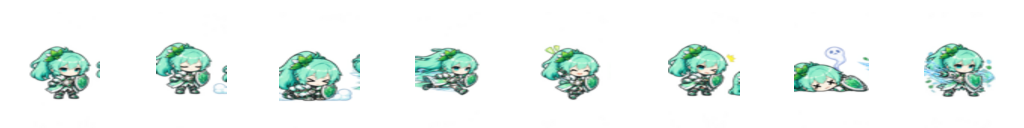
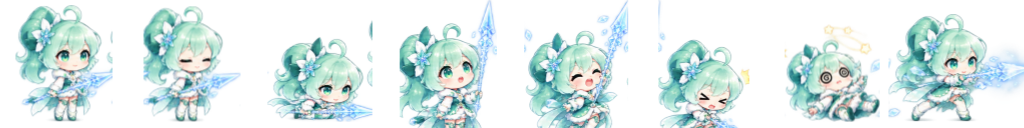
feat: real art — Frost Lance projectile + new Mint sprite sheets; Chocolate VFX art order (v2.79.0)
- proj_frostlance: cut/trimmed from owner art (assets/generated), wired into
  ASSET_IMAGES; Mint's Frost Lance now uses the real ice-spear sprite.
- New Mint character: 8-frame action sheet (incl. charge/throw-lance cast pose)
  cut from the irregularly-spaced source via connected-component segmentation +
  bottom-aligned consistent scaling; 12-frame run atlas resized 4x3. Sheets now
  match body size, so CHAR_ACTION_SCALE.mint removed.
- Added docs/ART_ORDER_CHOCOLATE_VFX.md for the missing Flicker Strike VFX
  (fx_bearslash claw impact + fx_flickerblink warp streak).
- Removed the processed source uploads from assets/incoming.
- Verified headless: textures load, Mint sheets = 8/12 frames, Frost Lance cast
  + ice-stream tick run with zero runtime errors.

Claude-Session: https://claude.ai/code/session_01Tso8JqAwpZWKnPeTcx39vZ

diff --git a/game.js b/game.js
@@ -29,9 +29,14 @@ const BALANCE = {
 const TAU = Math.PI * 2;   // global — Game scene (บอส/VFX) อ้างถึง TAU ด้วย เดิมประกาศเฉพาะใน Boot.create → "TAU is not defined"
 
 /* ---- เวอร์ชัน + บันทึกอัปเดต (build-www ดึงไปทำ version.json ให้หน้า download) ---- */
-const GAME_VERSION = '2.78.0';
+const GAME_VERSION = '2.79.0';
 const RELEASES_URL = 'https://github.com/hardza1230/Survival-like-Mobile-Game/releases/download/latest/mochi-mayhem-debug.apk';
 const CHANGELOG = [
+  { v:'2.79.0', date:'2026-09-17', title:'Real art: Frost Lance + new Mint sprites', items:[
+    'ลงอาร์ตจริง: หอกน้ำแข็ง proj_frostlance (ตัด/ย่อจากอาร์ตเจ้าของ) → มิ้นต์ยิงหอกน้ำแข็งรูปจริงแล้ว',
+    'ตัวมิ้นต์ใหม่: ชีตท่า 8 เฟรม (มีท่าชาร์จปาหอก) + ชีตวิ่ง 12 เฟรม — สัดส่วนท่า/วิ่งตรงกัน เลิกใช้ CHAR_ACTION_SCALE',
+    'เพิ่มใบสั่งงานอาร์ต VFX ช็อกโกแลตที่ขาด (fx_bearslash รอยกรงเล็บหมี + fx_flickerblink สตรีควาร์ป)',
+  ]},
   { v:'2.78.0', date:'2026-09-17', title:'Mint → Frost Lance + Flicker faster + Cocoa regen', items:[
     'มิ้นต์เปลี่ยน Basic Attack เป็น "Frost Lance" หอกน้ำแข็งทะลุแนว — พุ่งเจาะทะลุทุกตัว + ทิ้ง "สายธารน้ำแข็ง" บนแนว (DoT ต่อเนื่อง + ชะลอตัวที่เดินผ่าน)',
     'อัปเกรด: power=ดาเมจ · rate=ชาร์จไว · chill=ทะลุไกล+สายธารยาว · linger=สายธารอยู่นานขึ้น · blizzard=แตกเกล็ด · permafrost=แช่ลึก+DoT+40% · Evo=หอก 3 เล่มสามง่าม',
@@ -819,6 +824,7 @@ const ASSET_IMAGES = {
   proj_rocket:'assets/proj_rocket.png', proj_fork:'assets/proj_fork.png', proj_boomer:'assets/proj_boomer.png',   // กระสุนรูปจริง (คีย์เขียว)
   // projectile sprite จริง — แทน spark/circle vector เดิม
   proj_sprinkle:'assets/generated/proj_sprinkle.png', proj_whirl:'assets/generated/proj_whirl.png',
+  proj_frostlance:'assets/generated/proj_frostlance.png',   // หอกน้ำแข็งของมิ้นต์ (Frost Lance)
   proj_popcorn:'assets/generated/proj_popcorn.png', bubble:'assets/generated/proj_bubble.png',
   proj_enemy:'assets/generated/proj_enemy.png', proj_mine:'assets/generated/proj_mine.png',
   // static VFX sprite จริง — ขยาย/หมุน/เฟดด้วย tween แทนการวาด vector ทุกครั้ง
@@ -1391,7 +1397,7 @@ const RARITIES = [
 ];
 function rollRarity(){ const tot=RARITIES.reduce((s,r)=>s+r.weight,0); let x=Math.random()*tot; for(const r of RARITIES){ x-=r.weight; if(x<=0)return r; } return RARITIES[0]; }
 /* ตัวคูณสเกลตอนโชว์ชีต action (idle/พุ่ง/โดนตี ฯลฯ) เฉพาะตัวที่อาร์ต action เล็กกว่าอาร์ต run — กันตัวหดตอนหยุดเดิน */
-const CHAR_ACTION_SCALE = { mint: 1.5 };
+const CHAR_ACTION_SCALE = {};   // ชีตท่า/วิ่งของมิ้นต์ใหม่สัดส่วนตรงกันแล้ว ไม่ต้องคูณชดเชย
 const AWAKEN_CAP = 2;         // ต่อหนึ่งด่านมี Awaken ได้ไม่เกิน 2 สาย เพื่อคุม power budget
 const SKILL_CAP  = 4;        // จำกัดสายโจมตีให้ต้องเลือก build จริง ไม่กวาดทุกสกิลในรอบเดียว
 const PASSIVE_CAP = 4;       // จำกัดพรติดตัว ลด power stacking และทำให้คู่ Evolution มีความหมาย

diff --git a/docs/ART_ORDER_CHOCOLATE_VFX.md b/docs/ART_ORDER_CHOCOLATE_VFX.md
@@ -1,0 +1,55 @@
+# 🐻🍫 ใบสั่งงานอาร์ต — VFX ที่ขาดของช็อกโกแลต (โกโก้ · Flicker Strike)
+
+> โกโก้ใช้ Unique ใหม่ **Flicker Strike** (วาร์ปฟันรัว ๆ สายคอมโบประชิด ธีมหมี/ช็อกโกแลตม่วงอุ่น)
+> ตอนนี้จังหวะ "ฟัน" ใช้แค่วงกระแทกสีม่วง + อนุภาคทั่วไป — **ยังขาด VFX รอยฟัน/กรงเล็บหมี** และ **สตรีคตอนวาร์ป**
+> ทำ **2 ชิ้น** (ทำชิ้นแรกก่อนได้ ชิ้น 2 เสริม)
+
+---
+
+## ชิ้นที่ 1 (สำคัญสุด) — รอยฟันกรงเล็บหมี `fx_bearslash`
+ใช้เด้งตอนวาร์ปเข้าฟันศัตรูแต่ละครั้ง (เล่นครั้งเดียวแล้วหาย)
+
+### สเปกเทคนิค (VFX flipbook — ต้องเป๊ะตามระบบเกม)
+- **ชื่อไฟล์:** `fx_bearslash.png`
+- **พื้น:** **ดำสนิท (solid black background)** — ไม่ใช่โปร่งใส (เกมใช้ additive blend ลบพื้นดำออกเอง)
+- **เลย์เอาต์:** สตริปแนวนอน **8 เฟรมเท่า ๆ กัน** (8 คอลัมน์ 1 แถว) เรียงเป็นอนิเมชันต่อเนื่อง
+- **ขนาดเฟรม:** ~192×192 px ต่อเฟรม → รวม 1536×192 (เฟรมไม่ต้องจตุรัสเป๊ะก็ได้ แต่เท่ากันทุกเฟรม)
+- **สี:** ม่วง–ชมพูอุ่น เรืองแสง (ธีมช็อกโกแลตเวทมนตร์) โทน `#b98bff / #9f6bff` + ไส้ขาวสว่าง
+- **เนื้อหา:** รอย **กรงเล็บหมี 3 เส้นเฉือน (claw slash)** วาบขึ้นเร็ว → พุ่งกว้าง → จางหาย · มีประกาย/สะเก็ดพลังงานเล็กน้อย
+- อนิเมชัน: เฟรม 1–2 เริ่มวาบ, 3–5 เต็มแรงกว้างสุด, 6–8 จางหาย
+
+### เทมเพลตส่ง AI image (ก๊อปได้เลย)
+```
+An 8-frame horizontal sprite strip animation of a glowing BEAR CLAW SLASH impact effect
+for a cute candy game. Three diagonal claw-slash streaks in warm purple-pink (#9f6bff /
+#b98bff) with a bright white-hot core and a few sparkles. Frames read left to right:
+the slash flashes in, expands wide and bright at peak, then fades out.
+
+STRICT REQUIREMENTS:
+- SOLID BLACK background (not transparent) — pure #000000, no other bg color
+- 8 equal frames in a SINGLE horizontal row, each 192x192 px, total 1536x192
+- Same framing/scale each frame, effect centered
+- Glowing purple/pink energy, no text, no character
+Output a single PNG with solid black background.
+```
+
+## ชิ้นที่ 2 (เสริม) — สตรีควาร์ป `fx_flickerblink`
+เส้นแสงตวัดตอนตัวละครวาร์ปพุ่งจากจุดหนึ่งไปอีกจุด (ตอนนี้ใช้ afterimage ตัวละครม่วง — ถ้ามีสตรีคจะฟินขึ้น)
+
+### สเปก
+- **ชื่อไฟล์:** `fx_flickerblink.png` · พื้น**ดำสนิท** · สตริป 8 เฟรมเท่ากัน ~192×96 px/เฟรม (รวม 1536×96)
+- เนื้อหา: ลำแสง/เส้นตวัดม่วง–ขาว พุ่งจากซ้าย→ขวา (anchor 'left') เหมือน after-streak ความเร็วสูง
+```
+An 8-frame horizontal sprite strip of a fast purple-white MOTION STREAK / blink dash
+trail (like an afterimage speed line) flashing from left to right, on a SOLID BLACK
+background. Warm purple #9f6bff glowing energy. 8 equal frames, each 192x96 px, total
+1536x96, effect pointing right. No text. Output a PNG with solid black background.
+```
+
+---
+
+## หลังได้ภาพ (สำหรับ Claude)
+1. เจ้าของอัป `assets/incoming/vfx/fx_bearslash.png` (+ `fx_flickerblink.png`) แล้วบอก "วาง VFX โกโก้แล้ว"
+2. ตัด/ตรวจ (ระบบ VFX flipbook: alpha ตามความสว่าง lum×1.35 + saturation gate, platform ย่อสูง ×3 → resize คืน) ลง `assets/generated/`
+3. เพิ่มใน `ASSET_FX` = `{fx_bearslash:{url,fw:192,fh:192,frames:8,rate:26,anchor:'center'}}` (+ `fx_flickerblink` anchor:'left')
+4. เสียบใน `castFlickerStrike`: จุดฟันแต่ละครั้งเรียก `spawnFxAnim('fx_bearslash',t.x,t.y,{scale, rotation:มุมฟัน, add:true})` แทน/เสริม `vfxHitRing` · `blinkTo` เรียก `spawnFxAnim('fx_flickerblink',...)` ตามแนววาร์ป
